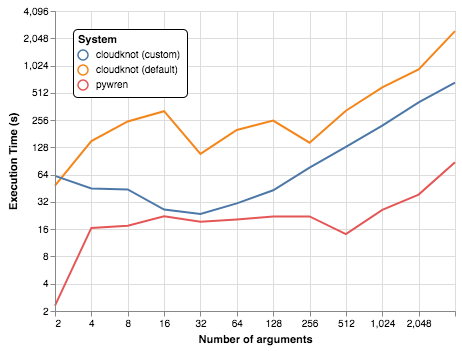
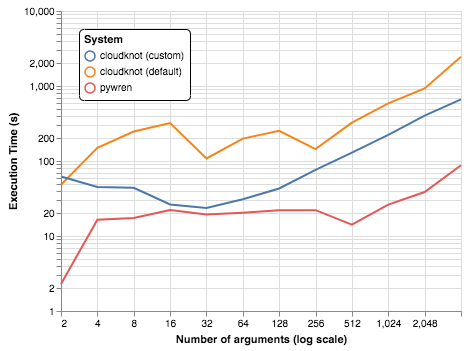
Add changes in response to reviewer #2: clarify the tradeoff between execution time and development time. Remove the word parity and be more explicit in comparisons of execution time.

Changed region(s): [[0.0303, 0.0, 1.0, 0.9972], [0.2727, 0.8832, 0.303, 0.9402], [0.1212, 0.9117, 0.1515, 0.9402]]

diff --git a/papers/adam_richie-halford/adam_richie-halford.rst b/papers/adam_richie-halford/adam_richie-halford.rst
@@ -98,7 +98,13 @@ resources.
 Here, we introduce a new Python library: Cloudknot
 :cite:`cloudknot-docs` :cite:`cloudknot-repo`, that launches Python
 functions as jobs on the AWS Batch service, thereby lifting these
-limitations. Cloudknot supports Python versions 2.7 and 3.5+.
+limitations. Cloudknot supports Python versions 2.7 and 3.5+. Rather
+than introducing its own set of terms and abstractions, Cloudknot
+attempts to mimic Pythons concurrent futures’ :code:`Executor` objects.
+Users of Cloudknot have to familiarize themselves with one new object:
+the :code:`Knot`, while some of its functionality will initially be new
+to users of Cloudknot (e.g., the way that resources on AWS are managed),
+its :code:`map` method should be familiar to most Python users.
 
 We propose that software designed to aid computational and data
 scientists should be concerned with minimizing the time from
@@ -183,8 +189,11 @@ total, the resulting command line program downloads input data from S3,
 executes the UDF, and sends output back to S3. :code:`Knot` then packages
 the CLI, along with its dependencies, into a Docker container. The
 container is uploaded into the Amazon Elastic Container Registry (ECR).
-Cloudknot's use of Docker allows it to handle non-trivial software and
-data dependencies (see examples below).
+Cloudknot's use of Docker allows it to handle non-trivial software
+and data dependencies (see examples below). This is because Docker
+provides a consistent and isolated environment, allowing complete
+control over the software dependencies of a particular application, and
+near-immediate deployment of these dependencies :cite:`Boettiger14`.
 
 Separately, :code:`Knot` uses an AWS CloudFormation template to create
 the AWS resources required by AWS Batch:
@@ -217,13 +226,21 @@ the AWS resources required by AWS Batch:
   minimum, desired, and maximum number of virtual CPUs and let AWS Batch
   select and manage the EC2 instances.
 
-:code:`Knot` uses sensible defaults for the job definition and compute
-environment parameters so that the casual user may never need to concern
-themselves with selecting an instance type or specifying an AMI. More advanced
-users can control their jobs' memory requirements, instance types, or AMIs.
-This might be necessary if the jobs require special hardware (e.g. GPGPU
-computing) or if the user wants more fine-grained control over which resources
-are launched.
+:code:`Knot` uses job definition and compute environment defaults
+conservative enough to run most simple jobs, with the goal of minimizing
+errors due to insufficient resources. The casual user may never need to
+concern themselves with selecting an instance type or specifying an AMI.
+Users who want to minimize costs by specifying the minimum sufficient
+resources or users who need additional resources for intensive jobs can
+control their jobs' memory requirements, instance types, or AMIs. This
+might be necessary if the jobs require special hardware (e.g. GPGPU
+computing) or if the user wants more fine-grained control over which
+resources are launched.
+
+One of the most complex aspects of AWS is its permissions model. Here,
+we assume that the user has the permissions needed to run AWS Batch
+in the console. We also provide users with the minimal necessary
+permissions in the documentation.
 
 Finally, :code:`Knot` exposes AWS resource tags to the user so that
 they can assign metadata to each created resource. This facilitates
@@ -369,11 +386,13 @@ summary of the status of all jobs submitted with this :code:`Knot` using
 Examples
 --------
 
-In this section, we will present a few use-cases of Cloudknot, including real
-life uses of the software in data analysis. We will start with examples that
-have minimal software and data dependencies, and increase the complexity by
-adding first data dependencies and subsequently complex software and resource
-dependencies.
+In this section, we will present a few use-cases of Cloudknot, including
+real life uses of the software in data analysis. We will start with
+examples that have minimal software and data dependencies, and increase
+the complexity by adding first data dependencies and subsequently
+complex software and resource dependencies. These and other examples
+are available in Jupyter Notebooks in the Cloudknot repository
+:cite:`cloudknot-examples`.
 
 
 Solving differential equations
@@ -397,30 +416,40 @@ In this unrealistic example, we wish to parallelize execution both over a range
 of different boundary conditions and over a range of grid sizes.
 
 First, we hold the grid size constant at 10 x 10 and parallelize over
-different temperature constraints on one edge of the simulation grid. We
-investigate the scaling of job execution time as a function of the size
-of the argument array. In Figure :ref:`fig.nargsscaling` we show the
-execution time as a function of the length of the argument array (with
-a :math:`\log_2` scale on both axes). The default :code:`Knot` instance
-has a maximum of 256 vCPUs in its compute environment and a desired
-vCPUs setting of 8. We testing scaling using these default parameters
-and also using a custom parameters with :code:`min_vcpus=512`,
-:code:`desired_vcpus=2048`, and :code:`max_vcpus=4096`. These tests
-were also limited by the EC2 service limits for our region and account,
-which vary by instance type but never exceeded 200 instances. The user
-interested in maximizing throughput could request limit increases.
-Regardless of the :code:`Knot` parameters, Pywren outperformed Cloudknot
-at all argument array sizes. Indeed, Pywren appears to achieve
-:math:`\mathcal{O}(1)` scaling for much of the argument range, revealing
-AWS Lambda's capabilities for massively parallel computation.
+different temperature constraints on one edge of the simulation grid.
+We investigate the scaling of job execution time as a function of the
+size of the argument array. In Figure :ref:`fig.nargsscaling` we show
+the execution time as a function of :math:`n_\mathrm{args}`, the length
+of the argument array (with a :math:`\log_2` scale on the :math:`x`-axis
+and a :math:`\log_{10}` scale on the :math:`y`-axis). We testing scaling
+using Cloudknot's default parameters and also using custom parameters
+[#]_. Regardless of the :code:`Knot` parameters, Pywren outperformed
+Cloudknot at all argument array sizes. Indeed, Pywren appears to achieve
+:math:`\mathcal{O}(1)` scaling between :math:`4 \le n_\mathrm{args}
+\le 512`, revealing AWS Lambda's capabilities for massively parallel
+computation. For :math:`n_\mathrm{args} > 512`, Pywren appears to
+conform to :math:`\mathcal{O}(n)` scaling with a constant of roughly
+0.25. By contract, Cloudknot exhibits noisy :math:`\mathcal{O}(n)`
+scaling for :math:`n_\mathrm{args} \gtrapprox 32`, with a constant that
+is comparable to Pywren's scaling constant for :math:`n_\mathrm{args}
+> 512`. Precise determination of these scaling constants would require
+more data for a larger range of argument sizes.
+
+.. [#] Default settings are :code:`min_vcpus=0`,
+   :code:`desired_vcpus=8`, and :code:`max_vcpus=256`. Custom settings
+   are :code:`desired_vcpus=2048`, :code:`max_vcpus=4096`, and
+   :min_vcpus=512`. Both default and custom Cloudknot cases were also
+   limited by the EC2 service limits for our region and account, which
+   vary by instance type but never exceeded 200 instances.
 
 .. figure:: figures/nargsscaling.png
 
    Execution time to find solutions of the 2D heat equation for many
-   different temperature constraints on a 10x10 grid. We show scaling
-   as a function of the number of constraints for Pywren, the default
-   Cloudknot configuration, and a Cloudknot configuration with more
-   available vCPUs. Pywren outperforms Cloudknot in all cases. We posit
+   different temperature constraints on a 10 x 10 grid. We show
+   scaling as a function of the number of constraints for Pywren, the
+   default Cloudknot configuration, and a Cloudknot configuration
+   with more available vCPUs. Note the :math:`log_2` scale for the
+   :math:`x`-axis. Pywren outperforms Cloudknot in all cases. We posit
    that the additional overhead associated with building the Docker
    image, along with EC2 service limits limited Cloudknot's throughput.
    :label:`fig.nargsscaling`
@@ -598,31 +627,32 @@ neuroimaging and microscopy. And we've included scaling analyses
 that show that Cloudknot performs comparably to other distributed
 computing frameworks. On one hand, scaling charts like the ones in
 Figures :ref:`fig.nargsscaling`, :ref:`fig.syssizescaling`, and
-:ref:`fig.mribenchmark` are important because they show that Cloudknot
-does not introduce undue overhead burden and exploits the scaling
-efficiency of the underlying AWS Batch infrastructure.
+:ref:`fig.mribenchmark` are important because they show potential users
+the relative cost in execution time of using Cloudknot in comparison to
+other distributed computing platforms.
 
 On the other hand, the scaling results in this paper, indeed most
 scaling results in general, measure :math:`t_\mathrm{exec}` from
 Eq :ref:`eq.tcompute`, capturing only partial information about
 :math:`t_\mathrm{compute}`. Precisely measuring :math:`t_\mathrm{env}`
-including the time for users to learn a new system is a human computer
-interaction (HCI) problem that was beyond our expertise and resource
-limitations to solve at this time. But we believe an extra 30-50% in
-execution time may be acceptable when users do not need to learn a
-new queueing system or batch processing language nor do they have to
-select from a dizzying array of instance types. Beginning Cloudknot
-users simply add an extra import statement, instantiate a :code:`Knot`
-object, call the :code:`map()` method, and wait for results. But because
-Cloudknot is built using Docker and the AWS Batch infrastructure, it can
-accomodate the needs of more advanced users who want to augment their
-Dockerfiles or specify instance types.
+is beyond the scope of this paper so the reduction in
+:math:`t_\mathrm{compute}` is admittedly speculative. But we believe an
+extra 30-50% in execution time may be acceptable in some situations. For
+example, if the amount of time that a user will spend learning a new
+queueing system or batch processing language exceeds the time savings
+due to reduced execution time, then it will be advantageous to accept
+Cloudknot's suboptimal execution time in order to use its simplified
+API. Beginning Cloudknot users simply add an extra import statement,
+instantiate a :code:`Knot` object, call the :code:`map()` method, and
+wait for results. And because Cloudknot is built using Docker and the
+AWS Batch infrastructure, it can accomodate the needs of more advanced
+users who want to augment their Dockerfiles or specify instance types.
 
-Cloudknot's simplified API and ability to achieve rough parity with
-other distributed computing frameworks makes it a viable tool for
-researchers who want distributed execution of their computational
-workflow, from within their Python environment, without the steep
-learning curve of learning a new platform.
+Cloudknot's simple API and its conditionally acceptable execution
+time compared to other distributed computing frameworks makes it a
+viable tool for researchers who want distributed execution of their
+computational workflow, from within their Python environment, without
+the steep learning curve of learning a new platform.
 
 
 Acknowledgements
